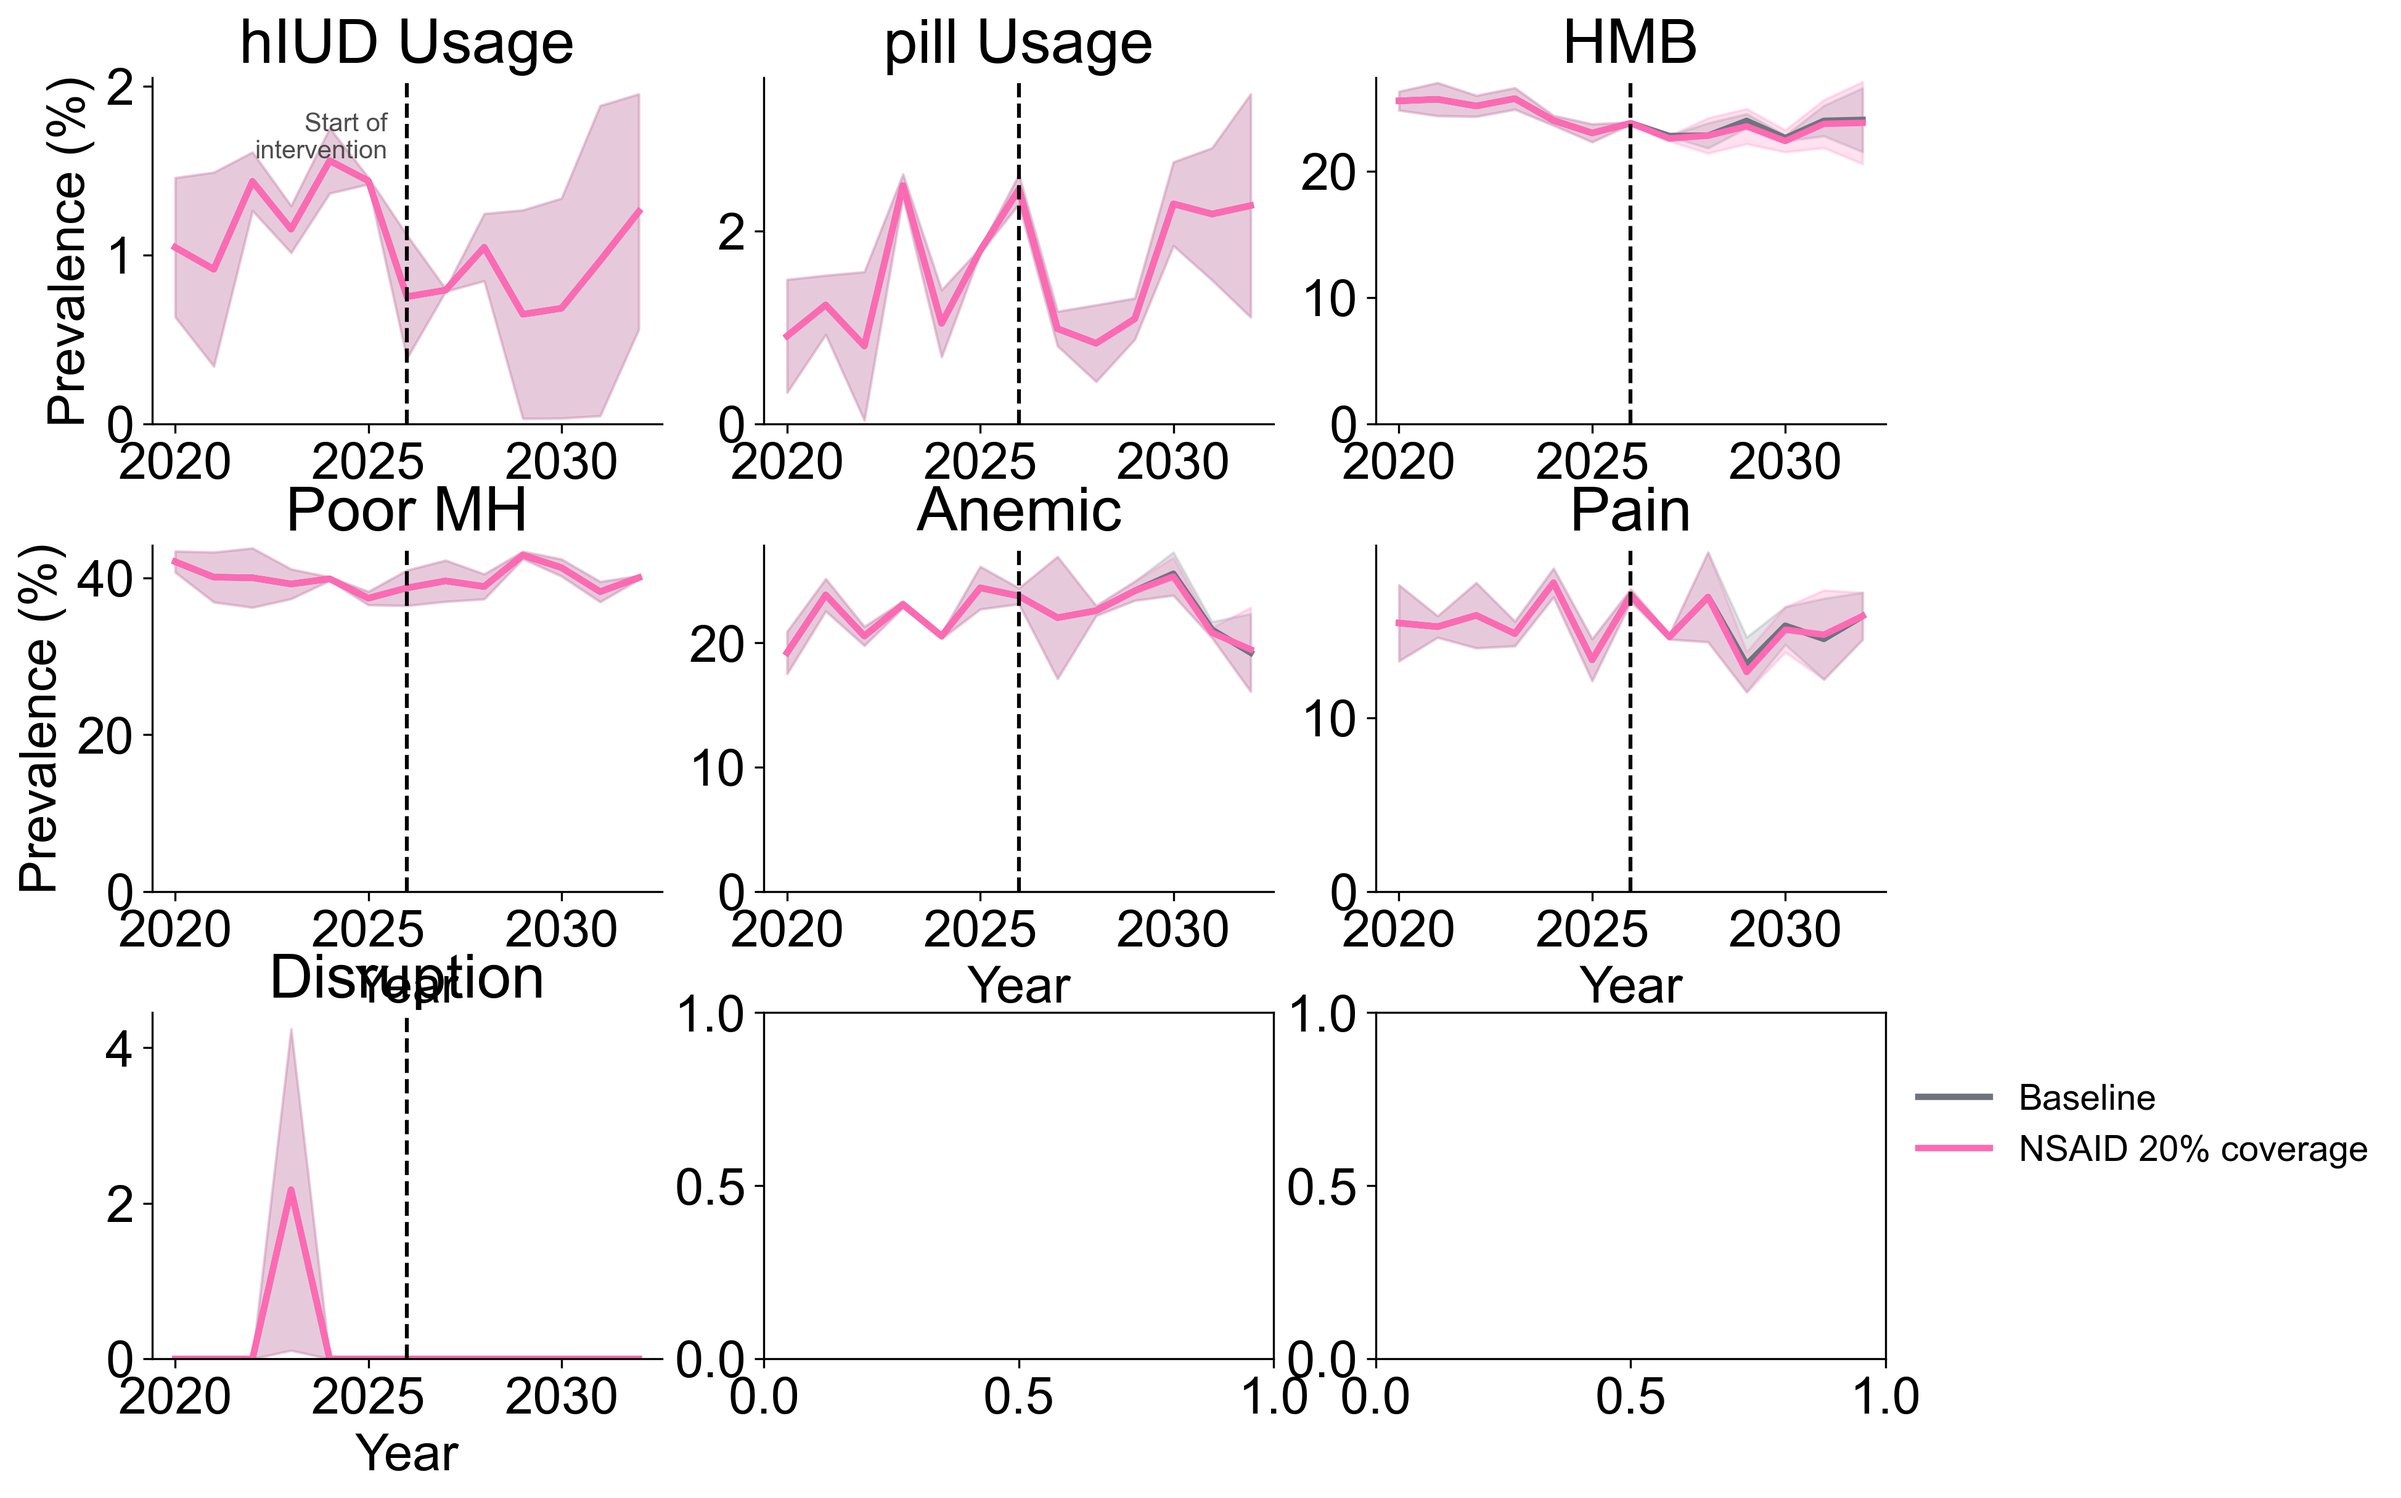
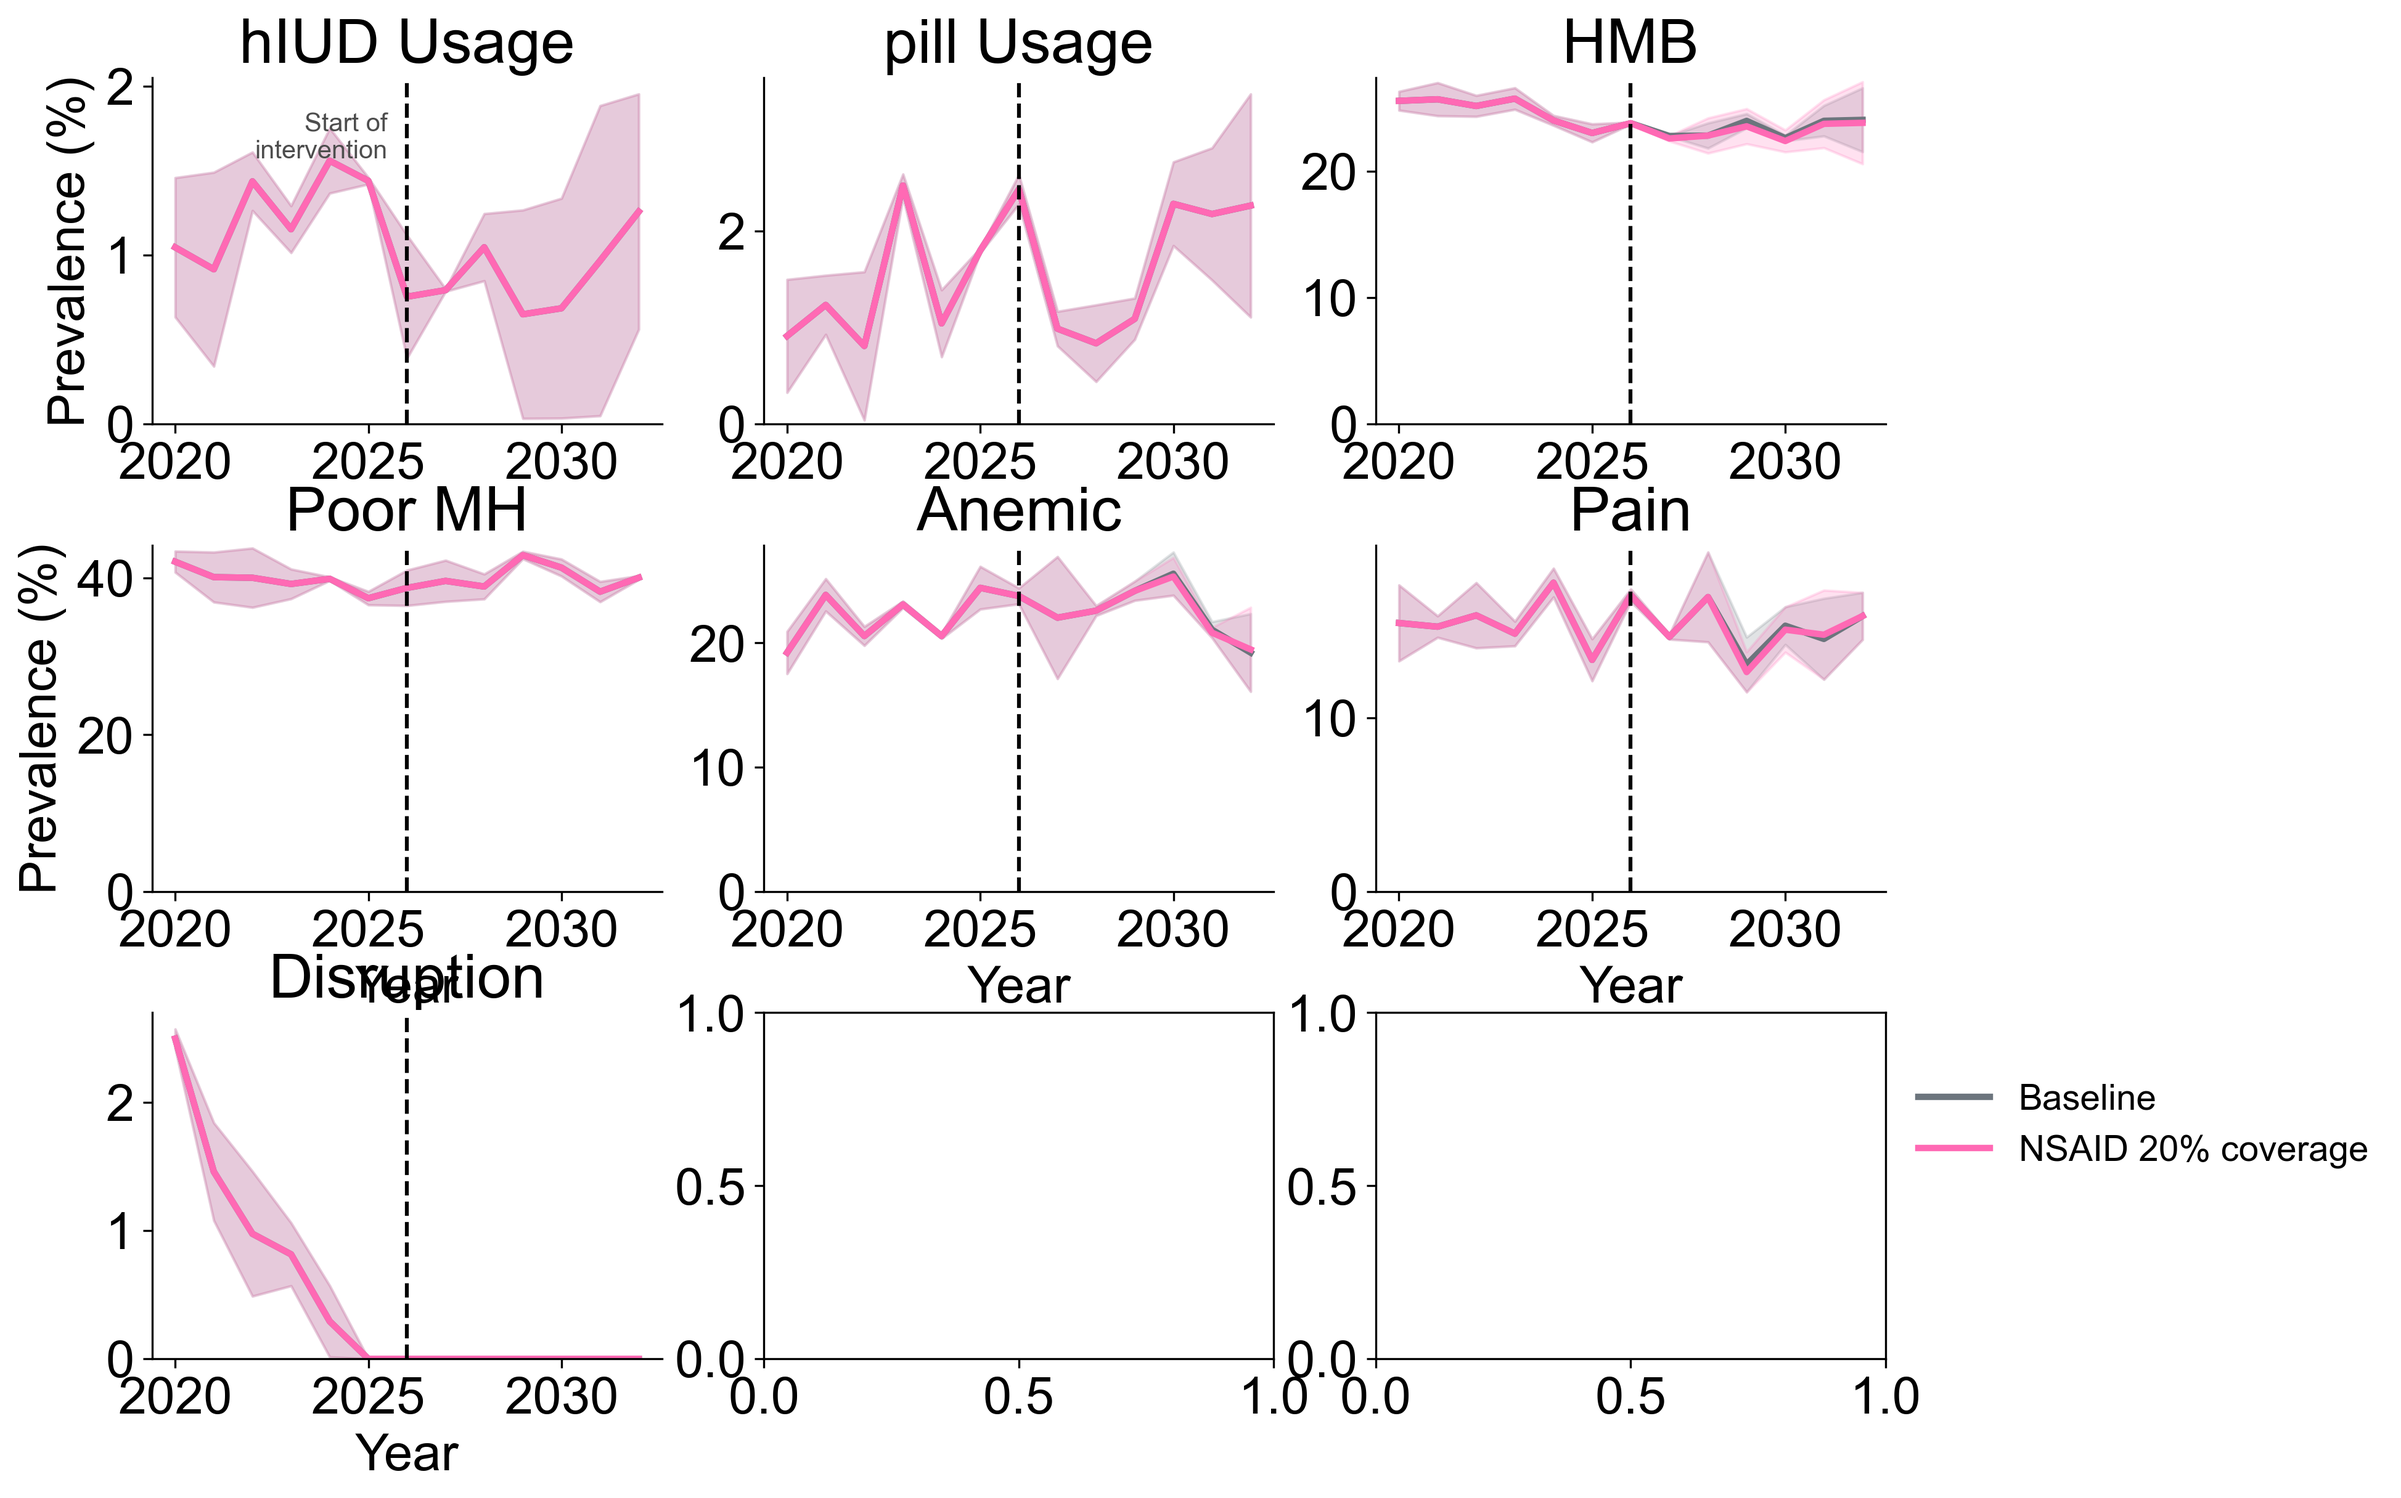
change the code to reflect the monthly and annual scale

Changed region(s): [[0.0311, 0.7096, 0.1553, 0.9255], [0.0311, 0.6787, 0.0621, 0.7096]]

diff --git a/run_kenya_nsaid_added.py b/run_kenya_nsaid_added.py
@@ -29,6 +29,22 @@ from education import Education
 from interventions import hiud_hmb, txa, pill_hmb, hmb_package, nsaid
 
 
+# --- convert monthly time series to yearly ---
+def annualize_monthly(arr, how="mean"):
+    arr = np.asarray(arr)
+    if len(arr) < 12:
+        # Not enough months to form a year; return empty array for safety
+        return np.array([])
+    n_years = len(arr) // 12
+    arr = arr[:12 * n_years].reshape(n_years, 12)
+    if how == "mean":
+        return arr.mean(axis=1)
+    elif how == "eoy":
+        return arr[:, -1]
+    else:
+        raise ValueError(how)
+
+
 # updates:
     # - 100k agents
     # - 100 sim iters
@@ -216,9 +232,16 @@ def plot_stochastic_results(stats, years, si, colors, scenarios_to_plot=None,
             if scenario not in stats:
                 continue
             
-            mean = stats[scenario][res]['mean'][si:] * 100
-            lower = stats[scenario][res]['lower'][si:] * 100
-            upper = stats[scenario][res]['upper'][si:] * 100
+            # Ensure stats series align with the provided years array
+            ylen = len(years)
+            # take the last ylen elements in case stats include earlier years
+            mean = stats[scenario][res]['mean'][-ylen:] * 100
+            lower = stats[scenario][res]['lower'][-ylen:] * 100
+            upper = stats[scenario][res]['upper'][-ylen:] * 100
+
+            # quick debug check (optional)
+            if not (len(mean) == len(years) == len(lower) == len(upper)):
+                print(f"DEBUG SHAPES mismatch for {scenario} {res}: years={len(years)}, mean={len(mean)}, lower={len(lower)}, upper={len(upper)}")
             
             # Plot mean line
             ax.plot(years, mean, label=label_map.get(scenario, scenario), 
@@ -601,23 +624,12 @@ if __name__ == '__main__':
             
             for scenario, sim in sims.items():
                 for res in res_to_plot:
-                    def annualize_monthly(arr, how="mean"):
-                        arr = np.asarray(arr)
-                        n_years = len(arr)//12
-                        arr = arr[:12*n_years].reshape(n_years, 12)
-                        if how == "mean":
-                            return arr.mean(axis=1)
-                        elif how == "eoy":
-                            return arr[:, -1]
-                        else:
-                            raise ValueError(how)
-
                     if res == 'prop_disrupted':
-                        result = annualize_monthly(sim.results.edu[res], how="mean")   # <- key change
+                        result = annualize_monthly(sim.results.edu[res], how="mean")   
                     elif res == 'n_disruptions':
-                         result = annualize_monthly(sim.results.edu[res], how="eoy")    # <- key change
+                         result = annualize_monthly(sim.results.edu[res], how="eoy")    
                     else:
-                         result = sim.results.menstruation[f'{res}_prev'][::12]         # these are already prevalence-like; ok
+                         result = sim.results.menstruation[f'{res}_prev'][::12]         
                    
                     all_results[scenario][res].append(result)
         
